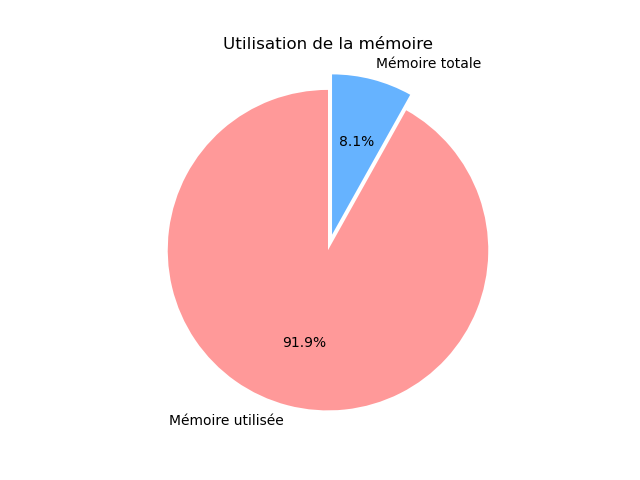
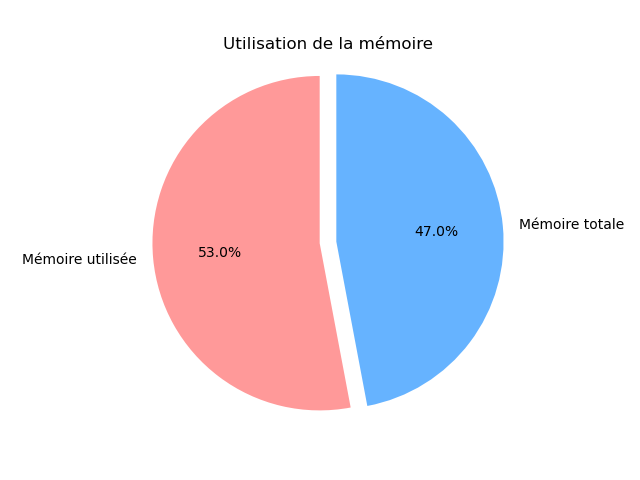
changements css

diff --git a/html/compil-proc.html b/html/compil-proc.html
@@ -12,34 +12,19 @@
         </h1>
         </header>
         <body>
-        <h3>Information sur le processeur de la machine:</h3>  <p>CPU Type: Intel(R) Core(TM) i5-7400 CPU @ 3.00GHz, Fréquence actuelle: 2999.998 MHz, Taille du cache: 6144 KB</p>
-        <h3>Information sur l'utilisation du disque de la machine :</h3><h4>Taille totale du disque :</h4><p> 20.0 Go</p><h4>Utilisation du disque :</h4> <p>7.23 Go</p>
-        <h3>Information sur l'OS de la machine :</h3><p> Version Linux: 6.1.42-antix.1-amd64-smp, Architecture: anticap@antix1</p>
+        <h3>Information sur le processeur de la machine:</h3>  <p>CPU Type: Common KVM processor, Fréquence actuelle: 2893.202 MHz, Taille du cache: 16384 KB</p>
+        <h3>Information sur l'utilisation du disque de la machine :</h3><h4>Taille totale du disque :</h4><p> 32.0 Go</p><h4>Utilisation du disque :</h4> <p>17.46 Go</p>
+        <h3>Information sur l'OS de la machine :</h3><p> Version Linux: 6.1.0-12-amd64, Architecture: debian-kernel@lists.debian.org</p>
         <h3>Information sur la mémoire de la machine:</h3>
-        <h4>Mémoire totale :</h4> <p>0.67 Go</p>
-        <h4>Mémoire utilisée :</h4> <p>628.97 Mo</p>
-        <h4>Mémoire libre :</h4> <p>57.11 Mo</p>
+        <h4>Mémoire totale :</h4> <p>3.82 Go</p>
+        <h4>Mémoire utilisée :</h4> <p>2061.07 Mo</p>
+        <h4>Mémoire libre :</h4> <p>1850.61 Mo</p>
         <h3>Nom de(s) carte(s) réseau(x) de la machine :</h3> <p>eth0</p>
         <h3>Information sur le(s) carte(s) graphique(s) de la machine : </h3>
         <p>-----------------------------------------------------------------------------------------------------------------------------------------------------------------------------------</p>
-        <p> Nombre de processus actifs sur la machine : 179<p>
-        <p> Temps total depuis que le serveur est lancé : up 16 minutes<p>
-        <p> Ports UDP/TCP ouverts : Connexions Internet actives (seulement serveurs)
-Proto Recv-Q Send-Q Adresse locale          Adresse distante        Etat       
-tcp        0      0 0.0.0.0:52669           0.0.0.0:*               LISTEN     
-tcp        0      0 127.0.0.1:631           0.0.0.0:*               LISTEN     
-tcp        0      0 0.0.0.0:111             0.0.0.0:*               LISTEN     
-tcp        0      0 0.0.0.0:22              0.0.0.0:*               LISTEN     
-tcp6       0      0 ::1:631                 :::*                    LISTEN     
-tcp6       0      0 :::6566                 :::*                    LISTEN     
-tcp6       0      0 :::111                  :::*                    LISTEN     
-tcp6       0      0 :::56381                :::*                    LISTEN     
-tcp6       0      0 :::22                   :::*                    LISTEN     
-udp        0      0 0.0.0.0:111             0.0.0.0:*                          
-udp        0      0 0.0.0.0:47847           0.0.0.0:*                          
-udp        0      0 127.0.0.1:761           0.0.0.0:*                          
-udp6       0      0 :::111                  :::*                               
-udp6       0      0 :::39822                :::* </p>
+        <p> Nombre de processus actifs sur la machine : 148<p>
+        <p> Temps total depuis que le serveur est lancé : up 1 week, 10 minutes<p>
+        <p> Ports UDP/TCP ouverts :  </p>
         <p>-----------------------------------------------------------------------------------------------------------------------------------------------------------------------------------</p>
         <p> Graphique camembert représentant l'utilisation de la mémoire actuelle : <p>
         <img src="../sae15proc/plots/camembert_memoire.png">

diff --git a/css/principale.css b/css/principale.css
@@ -1,6 +1,11 @@
 @CHARSET "UTF-8";
 /* Généralités pour toute la page
 ------------------------------------------------------------------------*/
+html {
+     margin-left:15%;
+     margin-right:15%;
+     text-align:center;
+}
 /* Bandeau de la page
 ------------------------------------------------------------------------*/
 header {
